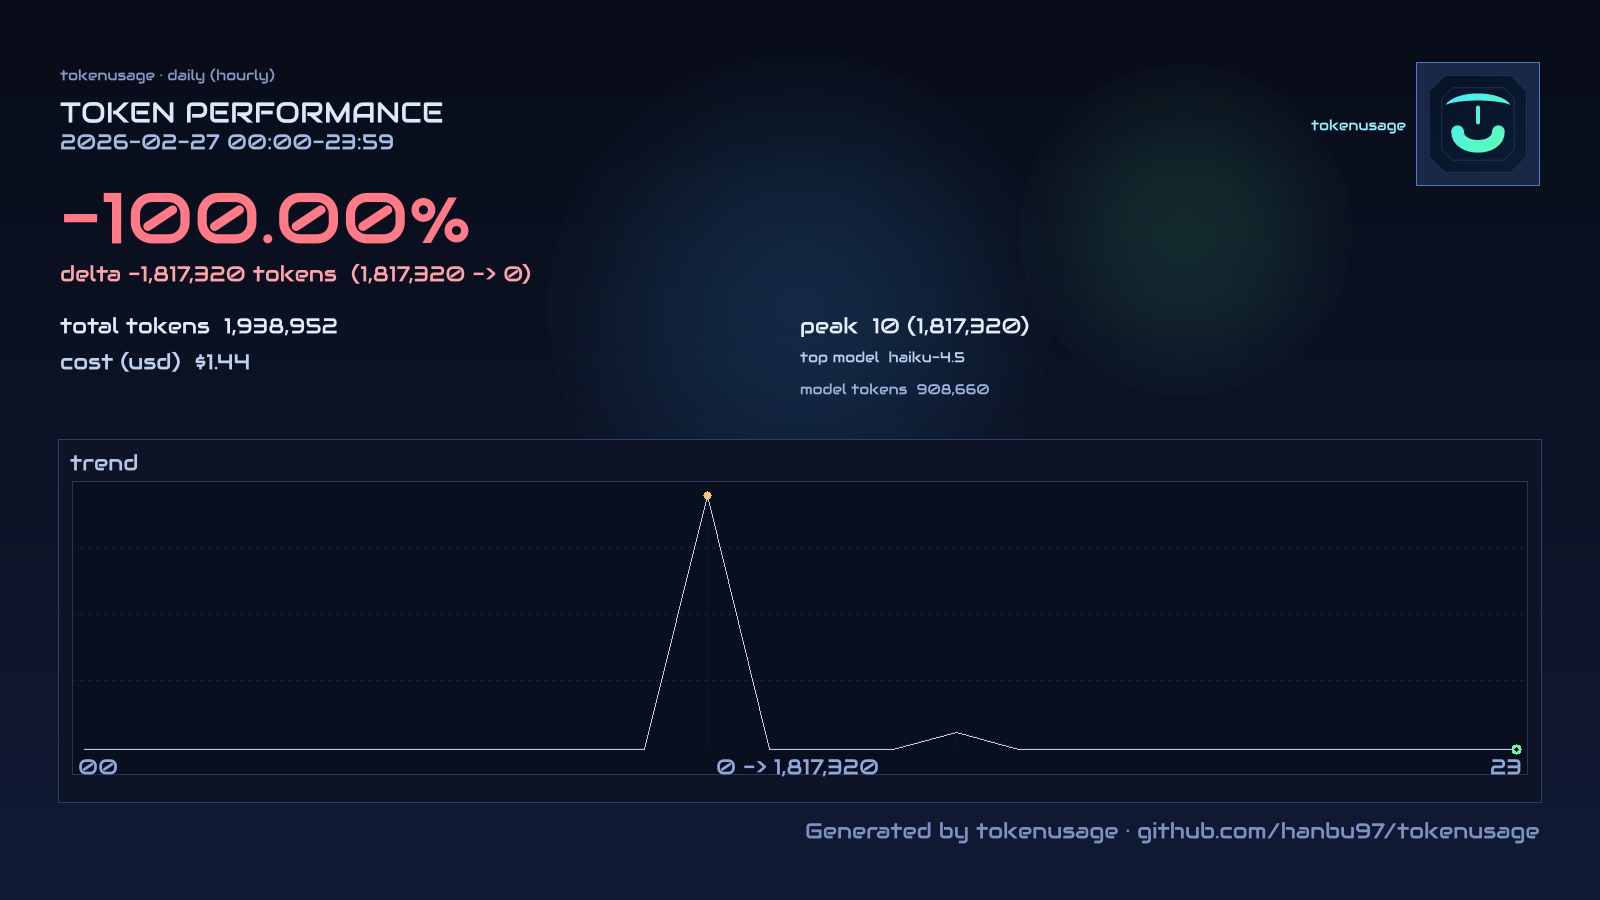
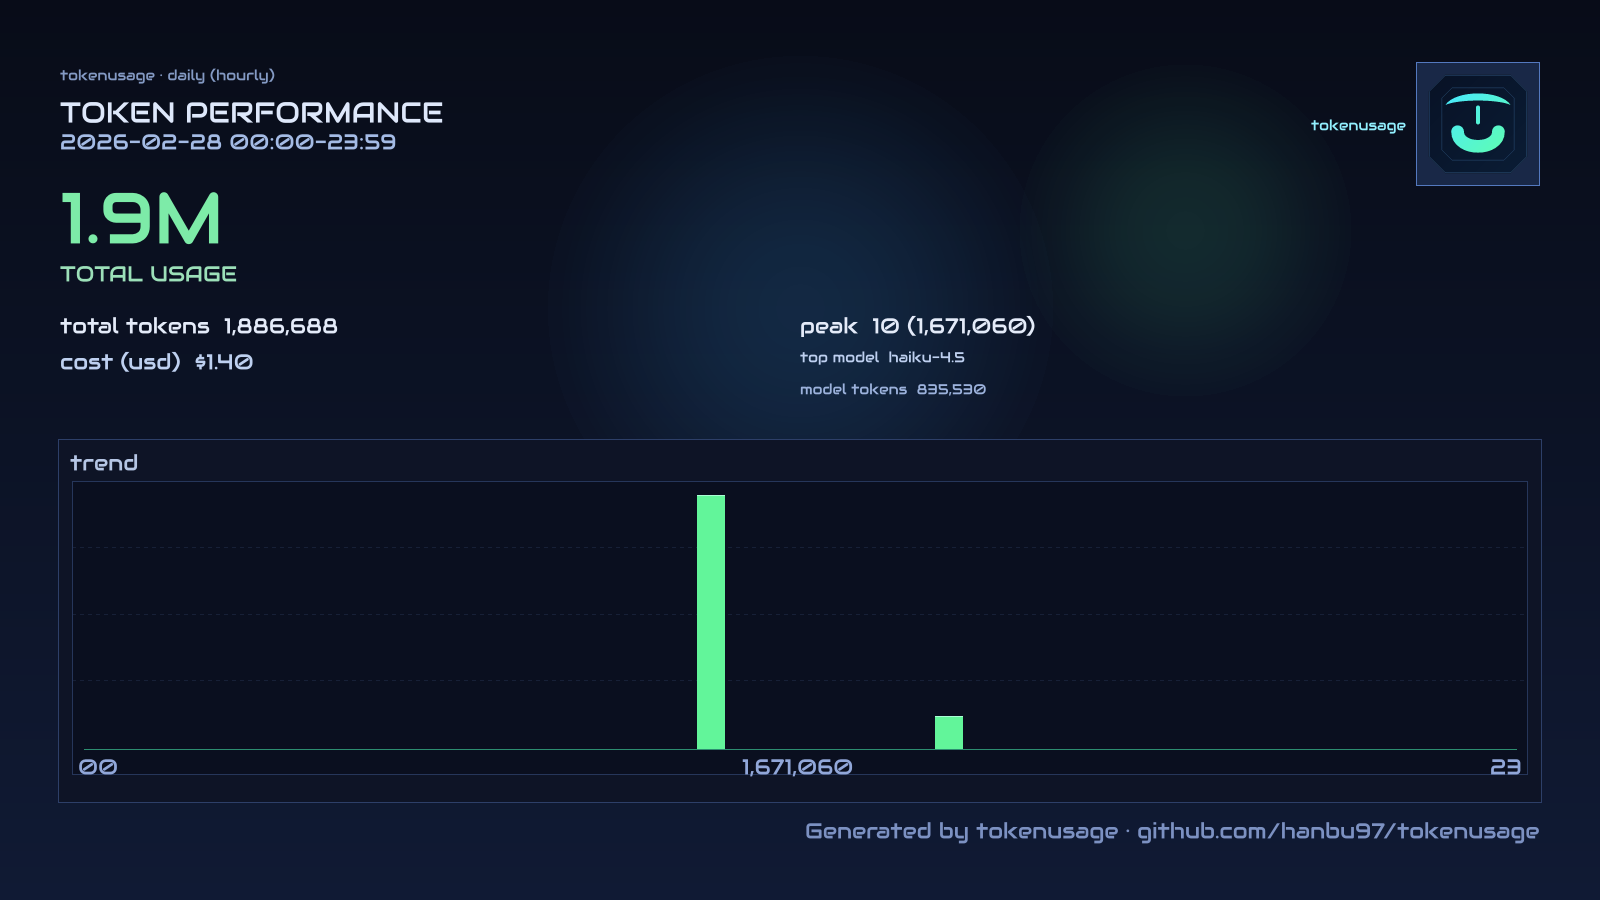
release: refresh img screenshots and bump to v1.1.8

diff --git a/README.md b/README.md
@@ -179,7 +179,7 @@ python3 examples/demo/generate_demo_data.py
 tu daily --config ./examples/demo/tu.demo.json --since 2026-02-09 --until 2026-02-28
 tu live --config ./examples/demo/tu.demo.json
 tu gui --config ./examples/demo/tu.demo.json --since 2026-02-09 --until 2026-02-28
-tu img --config ./examples/demo/tu.demo.json --since 2026-02-27 --until 2026-02-27 --output ./docs/images/share-demo.png
+tu img --config ./examples/demo/tu.demo.json --since 2026-02-28 --until 2026-02-28 --output ./docs/images/share-demo.png
 tu img --config ./examples/demo/tu.demo.json --period weekly --since 2026-02-22 --until 2026-02-28 --output ./docs/images/share-week-demo.png
 ```
 
